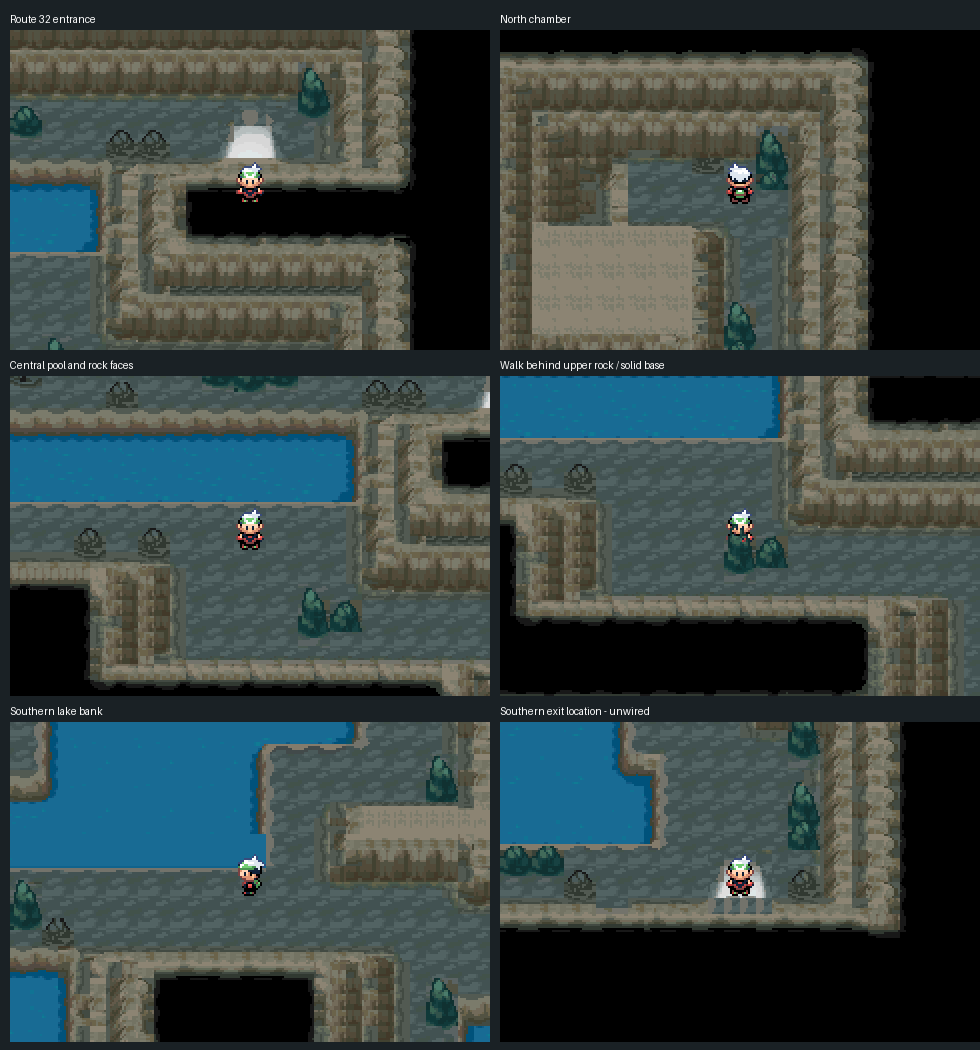
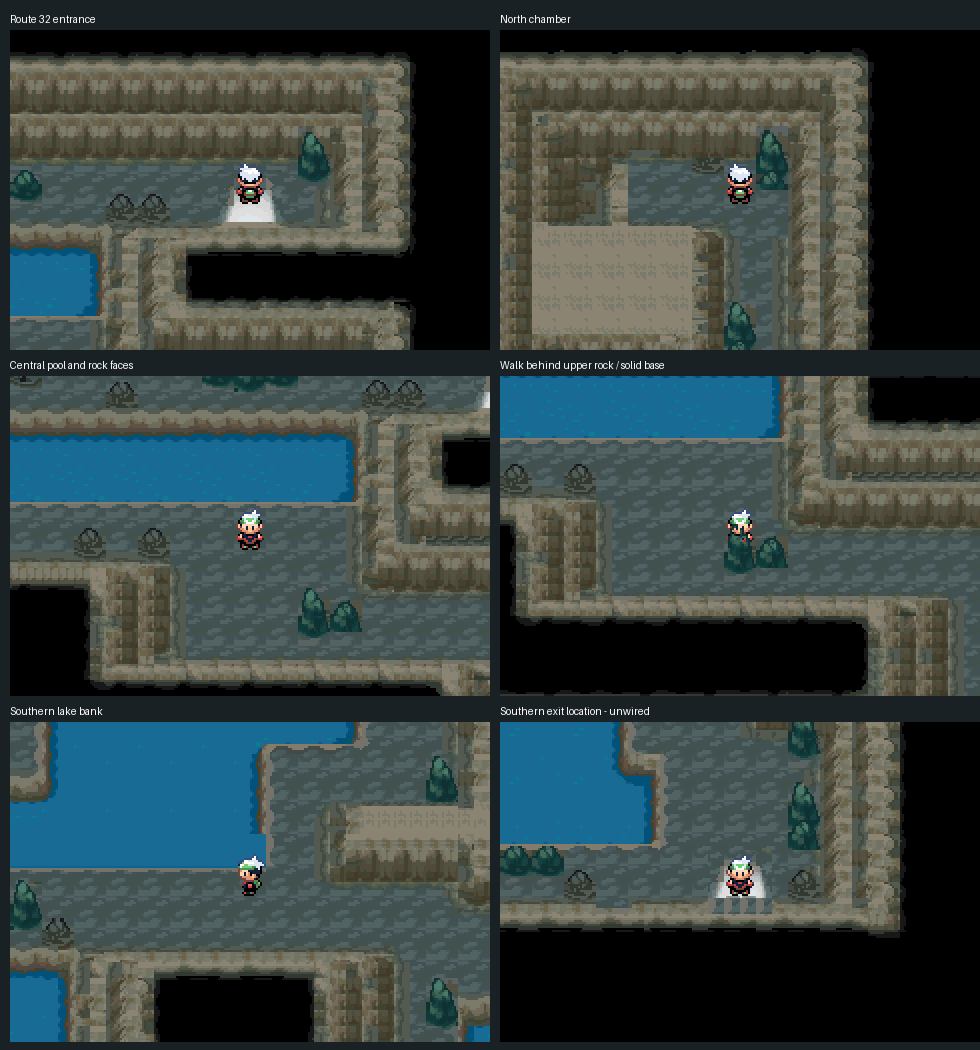
Verify exact cave entrance landing and refresh final native evidence

Changed region(s): [[0.0, 0.0305, 0.4286, 0.3352]]

diff --git a/tools/gba/maps/union_cave/runtime.py b/tools/gba/maps/union_cave/runtime.py
@@ -27,9 +27,9 @@ for tag,goal in goals:
 (E/'walk-plan.json').write_text(json.dumps(legs,indent=2)+'\n')
 start=r.MAIN[:r.MAIN.index('  // Actual east connection')];end=r.MAIN[r.MAIN.index('  unsigned status=call("TrySavingData"'):]
 r.MAIN=start+r'''
- go(43,14,118);step(UP,1);frames(360,0);observe("route32-cave-entry");need(state[2]==46,"route32-cave-entry");shot("route32-cave-entry");
- go(46,28,18);step(DOWN,1);frames(360,0);at(43,14,117,"cave-to-route32");step(DOWN,1);at(43,14,118,"route32-clear-door");shot("route32-return");
- go(43,15,118);step(UP,1);frames(360,0);observe("second-entrance-cell");need(state[2]==46,"second-entrance-cell");
+ go(43,14,118);step(UP,1);frames(360,0);observe("route32-cave-entry");at(46,28,19,"route32-cave-entry-position");step(UP,1);at(46,28,18,"route32-entry-floor");shot("route32-cave-entry");
+ go(46,28,18);step(DOWN,2);frames(360,0);at(43,14,117,"cave-to-route32");step(DOWN,1);at(43,14,118,"route32-clear-door");shot("route32-return");
+ go(43,15,118);step(UP,1);frames(360,0);observe("second-entrance-cell");at(46,28,19,"second-entrance-cell-position");step(UP,1);at(46,28,18,"second-entrance-cell-floor");
  go(46,28,18);
 '''+ '\n'.join(steps)+r'''
  go(46,22,25);shot("stalagmite-overlap");step(DOWN,1);at(46,22,25,"stalagmite-root-blocks");shot("stalagmite-root-blocks");

diff --git a/tools/gba/maps/union_cave/build.py b/tools/gba/maps/union_cave/build.py
@@ -66,7 +66,7 @@ for y in range(60):
   es=[];ts=[]
   for q in range(4):
    i=(y*2+q//2)*68+x*2+q%2;k=keys[i];fk=forekeys[i];es.append(lookup[k]|(k[0]<<12));ts.append(lookup[fk]|(fk[0]<<12))
-  behavior=105 if (x,y)==(28,19) else (16 if plan[y,x]=='W' else 0);blocked=bool(foot_blocked[y,x]);attr=behavior|(0 if heads[y*16:y*16+16,x*16:x*16+16].any() else 0x1000);key=tuple(es+ts)+(attr,)
+  behavior=101 if (x,y)==(28,19) else (16 if plan[y,x]=='W' else 0);blocked=bool(foot_blocked[y,x]);attr=behavior|(0 if heads[y*16:y*16+16,x*16:x*16+16].any() else 0x1000);key=tuple(es+ts)+(attr,)
   if key not in mids:mids[key]=len(entries);entries.append(tuple(es+ts));attrs.append(attr)
   grid[y,x]=mids[key]|(0xc00 if blocked else 0)|0x3000
 print('Metatiles',len(entries));assert len(entries)<=1024

diff --git a/docs/AGENT_HANDOFF.md b/docs/AGENT_HANDOFF.md
@@ -1125,10 +1125,12 @@ committing ROMs, saves, binaries or ignored toolchain/log directories.
 
 ## 2026-10-15 — Union Cave first floor
 
-Owner moved from Route32 to Union Cave. First-floor reconstruction replaces the small entrance proof room, preserving map/layout IDs and the Route32 exterior. Engine `codex/union-cave-1f`, commit `52af264a4736f5b837994f276b3bf2c8e1fd80fa`, depends on Route32 PR #8. Evidence/tooling: `codex/union-cave-evidence`; read [the cave review](../gba/art/union-cave-1f/README.md). Hub main has the required all-model map workflow; this task applies it.
+Owner moved from Route32 to Union Cave. First-floor reconstruction replaces the small entrance proof room, preserving map/layout IDs and the Route32 exterior. Engine `codex/union-cave-1f`, commit `6abf7e84e27828356c1bb390b048611c1997d4e4`, depends on Route32 PR #8. Evidence/tooling: `codex/union-cave-evidence`; read [the cave review](../gba/art/union-cave-1f/README.md). Hub main has the required all-model map workflow; this task applies it.
 
 Actual HGSS overview registered at 1:1 to 34x60 cells, separate floor/rock/water/void/foreground and foot collision. Original characters/items removed with context-specific wall/shore repairs. Private five-palette tilesets use 1008 static glyphs and 924 metatiles; no shared art/Route32 edits. Complete connected stalagmites retain dark centers; only base rows block, heads draw above the player. Region-map section appended for Union Cave/Johto; existing named location IDs preserved, generated NONE/COUNT terminal sentinels advance.
 
-Local build, actual Porymap pixel equality, Porytiles representative material round-trip, 214 native runtime observations, Route32 entry through both cells and return, full main passage, blocked rock/water/roots, foreground overlap and fresh save/cold reload/title Continue pass. A copy of the preceding Route32 proof save also reloads/continues. Original saves untouched, no ROM/save/tool binaries committed, no desktop game. Material audit exposes 25 RGB-majority disagreements in mixed shore, shadow, prop, staircase and exit cells; do not claim 2040 exact visual matches. Source is visually traced, not DS collision. Prior room and original reference preserved. Source generators are provenance, protected by owned-file guard; do not replay over owner edits.
+Local build, actual Porymap pixel equality, Porytiles representative material round-trip, 218 native runtime observations, Route32 entry through both cells and return, full main passage, blocked rock/water/roots, foreground overlap and fresh save/cold reload/title Continue pass. A copy of the preceding Route32 proof save also reloads/continues. Original saves untouched, no ROM/save/tool binaries committed, no desktop game. Material audit exposes 25 RGB-majority disagreements in mixed shore, shadow, prop, staircase and exit cells; do not claim 2040 exact visual matches. Source is visually traced, not DS collision. Prior room and original reference preserved. Source generators are provenance, protected by owned-file guard; do not replay over owner edits.
 
 Review remains with owner. B1F/B2F, Route33 exterior wiring, encounters/campaign actors, dynamic cave water and campaign Surf/field-move qualifications remain pending. Old proof saves inside the replaced 14x12 cave room are not automatically migrated to the new geometry.
+
+Union Cave PR #9: exact landing on `(28,19)` and walking onto `(28,18)` are tested through both Route32 doorway cells; interior exit uses the native south-arrow behavior, not an animated house door. Latest native gameplay evidence includes this correction.
